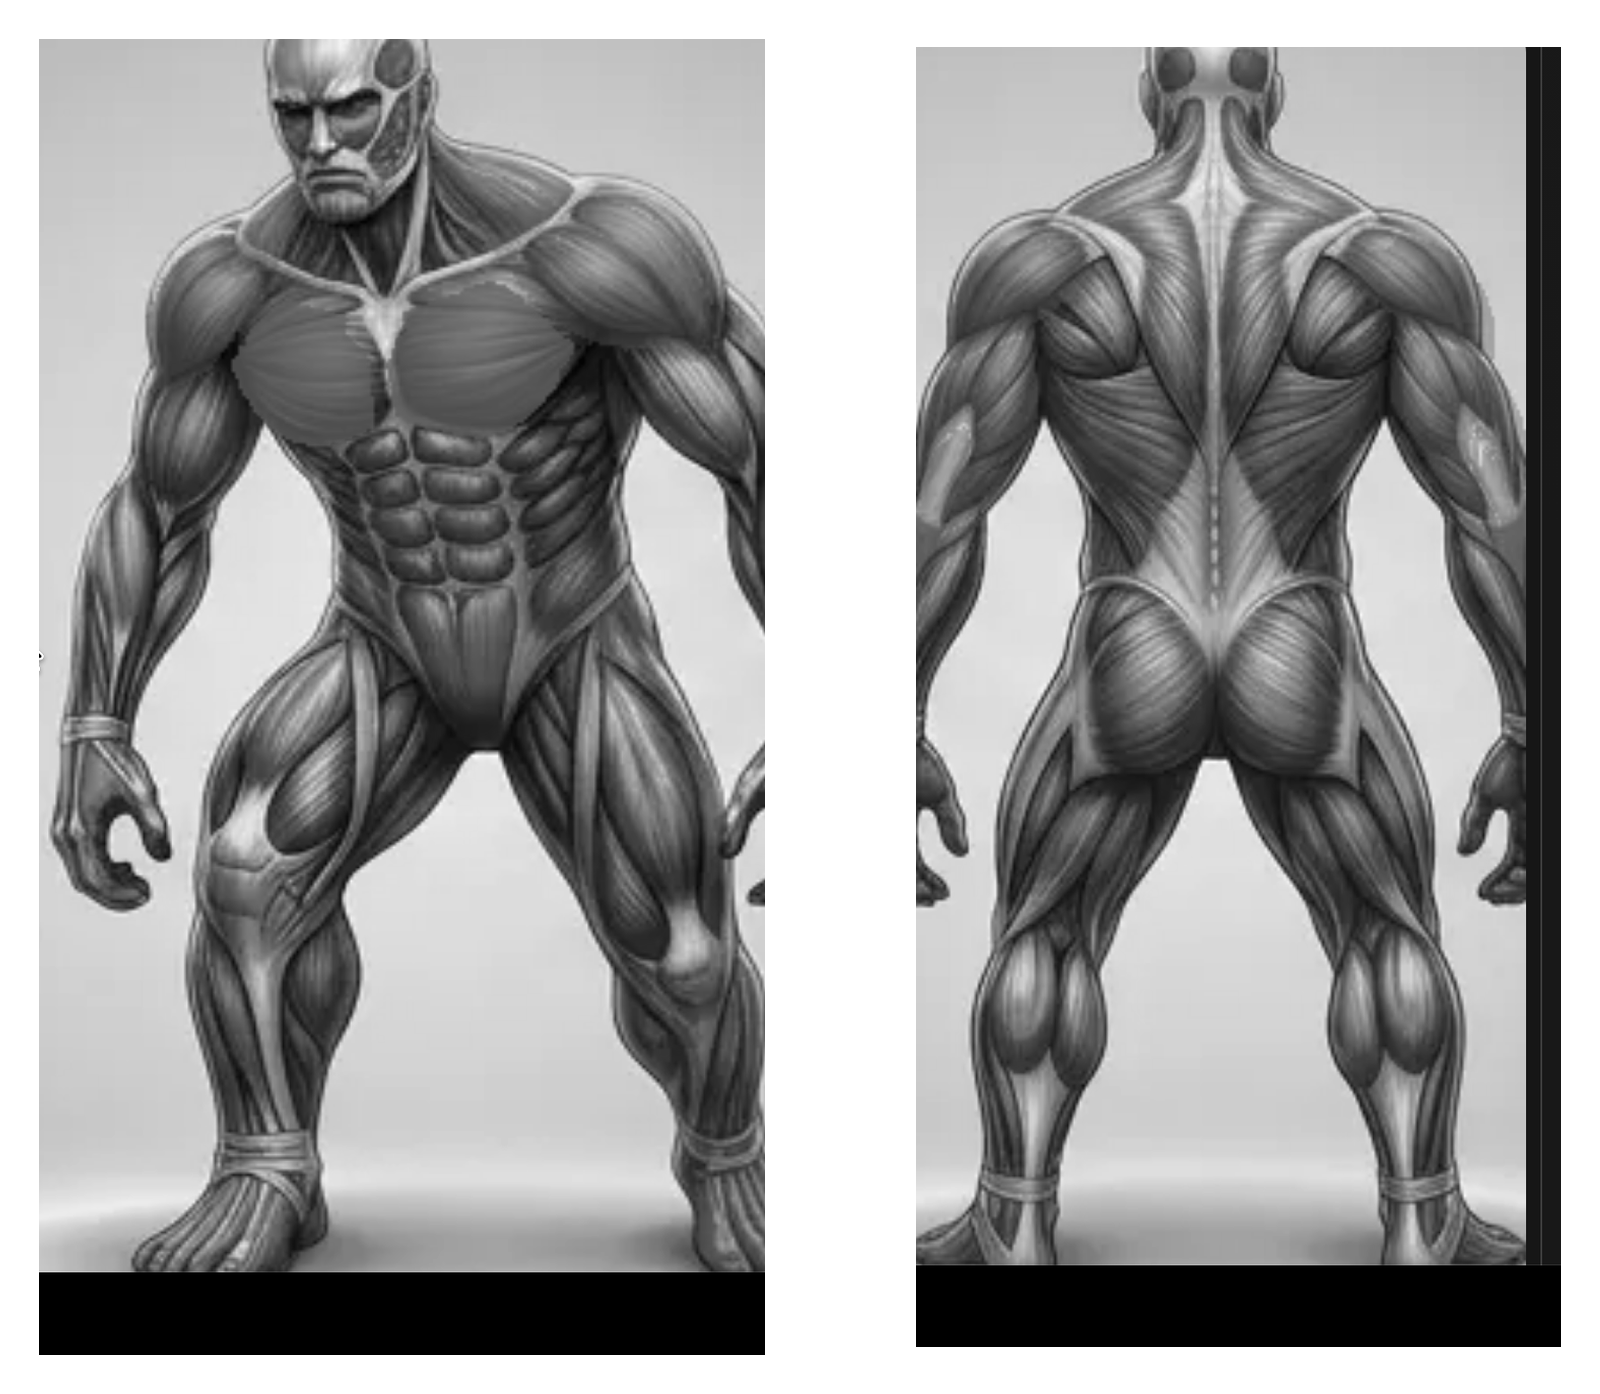
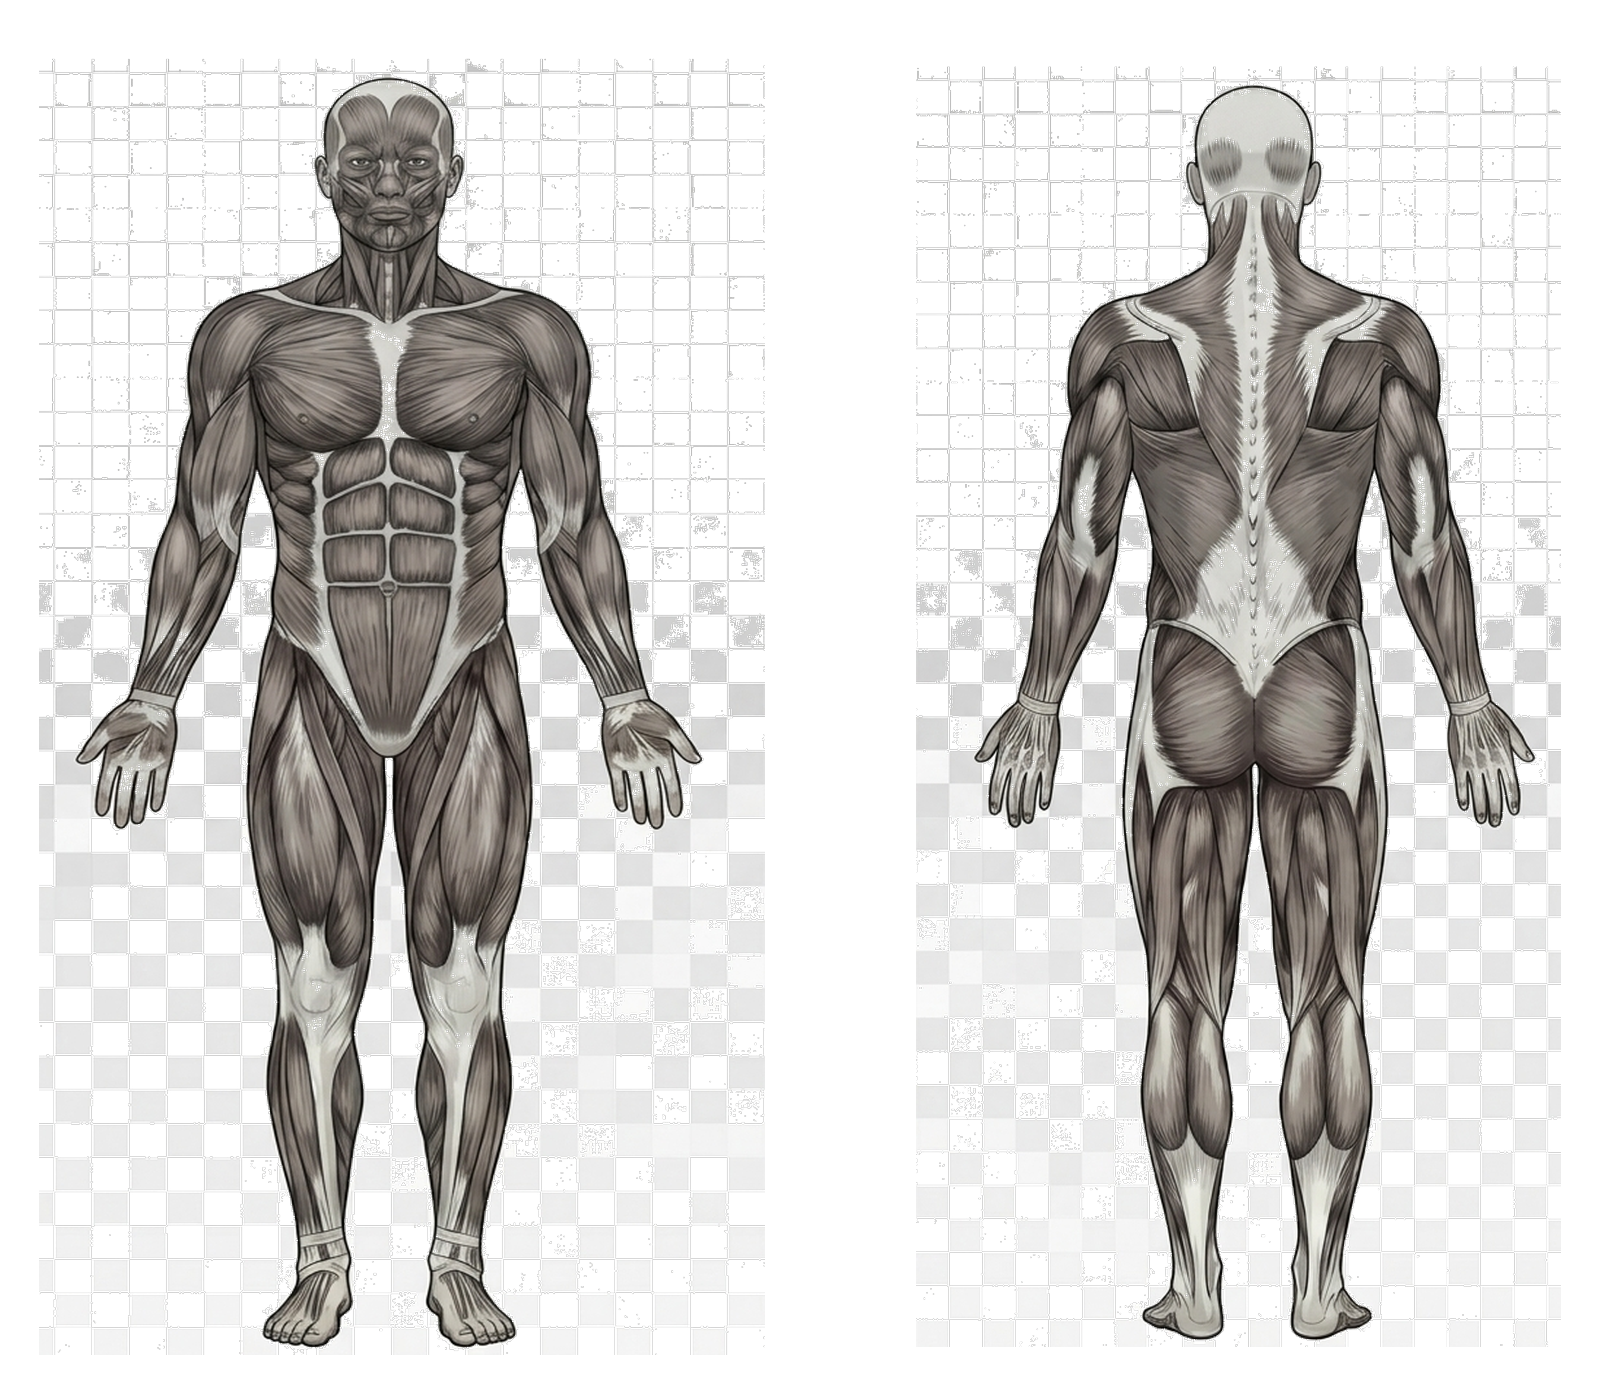
feat: use user-uploaded grayscale muscle graphics perfectly aligned and default coach model to gemini-2.5-flash

diff --git a/tests/services/gemini-model-routing.test.js b/tests/services/gemini-model-routing.test.js
@@ -344,11 +344,11 @@ describe('gemini model routing', () => {
     expect(coach.diagnostics.backend).toBe('vertex');
   });
 
-  it('uses Gemini 2.5 Pro as the default coach model when no override exists', () => {
+  it('uses Gemini 2.5 Flash as the default coach model when no override exists', () => {
     process.env.GOOGLE_AI_BACKEND = 'vertex';
     process.env.GEMINI_MODEL = '';
     process.env.GEMINI_MODEL_COACH = '';
 
-    expect(resolveGeminiCoachModel()).toBe('gemini-2.5-pro');
+    expect(resolveGeminiCoachModel()).toBe('gemini-2.5-flash');
   });
 });

diff --git a/src/services/exerciseCoachClient.js b/src/services/exerciseCoachClient.js
@@ -169,7 +169,7 @@ export function isGeminiConfigured() {
 }
 
 export function resolveGeminiCoachModel() {
-  const model = process.env.GEMINI_MODEL_COACH || process.env.GEMINI_MODEL || 'gemini-2.5-pro';
+  const model = process.env.GEMINI_MODEL_COACH || process.env.GEMINI_MODEL || 'gemini-2.5-flash';
   return typeof model === 'string' ? model.trim() : model;
 }
 

diff --git a/scripts/align_user_bodies.py b/scripts/align_user_bodies.py
@@ -1,0 +1,95 @@
+import sys
+from pathlib import Path
+from PIL import Image
+
+ROOT = Path(__file__).resolve().parents[1]
+ANATOMY = ROOT / 'public' / 'anatomy'
+
+def get_alpha_bbox(img, x_offset=0):
+    """Returns the bounding box of non-transparent pixels with an offset."""
+    alpha = img.getchannel('A')
+    bbox = alpha.getbbox()
+    if bbox is None:
+        return None
+    return (bbox[0] + x_offset, bbox[1], bbox[2] + x_offset, bbox[3])
+
+def main():
+    # 1. Restore the original old-base.png from Git
+    # We will do this inside the script by running a subprocess or assume it is done
+    old_base_path = ROOT / 'old-base.png'
+    if not old_base_path.exists():
+        print("Error: old-base.png not found. Please restore it first.")
+        sys.exit(1)
+        
+    old_base = Image.open(old_base_path).convert('RGBA')
+    width, height = old_base.size
+    print(f"Old base size: {width}x{height}")
+    
+    # Target Front Bounding Box in old-base (left half)
+    front_half_old = old_base.crop((0, 0, width // 2, height))
+    front_bbox_old = get_alpha_bbox(front_half_old, 0)
+    print(f"Old Front view bbox: {front_bbox_old}")
+    
+    # Target Back Bounding Box in old-base (right half)
+    back_half_old = old_base.crop((width // 2, 0, width, height))
+    back_bbox_old = get_alpha_bbox(back_half_old, width // 2)
+    print(f"Old Back view bbox: {back_bbox_old}")
+    
+    # 2. Load the clean transparent user bodies
+    clean_bodies_path = ROOT / 'clean-bodies.png'
+    if not clean_bodies_path.exists():
+        print("Error: clean-bodies.png not found. Please run remove_background.py first.")
+        sys.exit(1)
+        
+    clean_bodies = Image.open(clean_bodies_path).convert('RGBA')
+    cb_w, cb_h = clean_bodies.size
+    
+    # Clean up the 5px border of clean_bodies to remove any border artifacts from the JPEG
+    for y in range(cb_h):
+        for x in range(cb_w):
+            if x < 15 or x > cb_w - 15 or y < 15 or y > cb_h - 15:
+                clean_bodies.putpixel((x, y), (0, 0, 0, 0))
+                
+    # Now find the true bounding box of the front body (left side)
+    front_half_new = clean_bodies.crop((15, 15, cb_w // 2, cb_h - 15))
+    front_bbox_new = get_alpha_bbox(front_half_new, 15)
+    print(f"New Front view bbox: {front_bbox_new}")
+    
+    # Find the true bounding box of the back body (right side)
+    back_half_new = clean_bodies.crop((cb_w // 2, 15, cb_w - 15, cb_h - 15))
+    back_bbox_new = get_alpha_bbox(back_half_new, cb_w // 2)
+    print(f"New Back view bbox: {back_bbox_new}")
+    
+    if front_bbox_new is None or back_bbox_new is None:
+        print("Error: Could not isolate body silhouettes in user image.")
+        sys.exit(1)
+        
+    # Create a fresh transparent canvas
+    canvas = Image.new('RGBA', (width, height), (0, 0, 0, 0))
+    
+    # 3. Process and Align Front View (Left)
+    front_cropped = clean_bodies.crop(front_bbox_new)
+    target_front_w = front_bbox_old[2] - front_bbox_old[0]
+    target_front_h = front_bbox_old[3] - front_bbox_old[1]
+    
+    # Add a tiny adjustment padding to fit the vector layers perfectly
+    front_resized = front_cropped.resize((target_front_w, target_front_h), Image.Resampling.LANCZOS)
+    canvas.paste(front_resized, (front_bbox_old[0], front_bbox_old[1]), front_resized)
+    print("Front view mathematically aligned and pasted.")
+    
+    # 4. Process and Align Back View (Right)
+    back_cropped = clean_bodies.crop(back_bbox_new)
+    target_back_w = back_bbox_old[2] - back_bbox_old[0]
+    target_back_h = back_bbox_old[3] - back_bbox_old[1]
+    
+    back_resized = back_cropped.resize((target_back_w, target_back_h), Image.Resampling.LANCZOS)
+    canvas.paste(back_resized, (back_bbox_old[0], back_bbox_old[1]), back_resized)
+    print("Back view mathematically aligned and pasted.")
+    
+    # 5. Save the final aligned base image
+    out_path = ANATOMY / 'vector-muscles-base.png'
+    canvas.save(out_path, optimize=True)
+    print(f"Saved aligned base image to {out_path}")
+
+if __name__ == '__main__':
+    main()

diff --git a/scripts/remove_background.py b/scripts/remove_background.py
@@ -1,0 +1,33 @@
+from PIL import Image
+
+def remove_background(img_path, out_path):
+    img = Image.open(img_path).convert('RGBA')
+    width, height = img.size
+    
+    # Create new image with transparency
+    new_img = Image.new('RGBA', (width, height), (0, 0, 0, 0))
+    
+    for y in range(height):
+        for x in range(width):
+            r, g, b, a = img.getpixel((x, y))
+            
+            # Check if it's the checkerboard background
+            # The background is composed of pure white (255, 255, 255) and light gray (201-205, 201-205, 201-205)
+            is_white = (r > 250 and g > 250 and b > 250)
+            is_gray = (200 <= r <= 206 and 200 <= g <= 206 and 200 <= b <= 206)
+            
+            if is_white or is_gray:
+                # Background -> Transparent
+                new_img.putpixel((x, y), (0, 0, 0, 0))
+            else:
+                # Body -> Keep pixel
+                new_img.putpixel((x, y), (r, g, b, 255))
+                
+    new_img.save(out_path, optimize=True)
+    print(f"Saved background-removed image to {out_path}")
+
+if __name__ == '__main__':
+    remove_background(
+        '/Users/camilosar/.gemini/antigravity/brain/162f9e7e-7613-4af5-9a9f-33879039e4a5/vector_muscles_base_clean_1780012646551.png',
+        'clean-bodies.png'
+    )